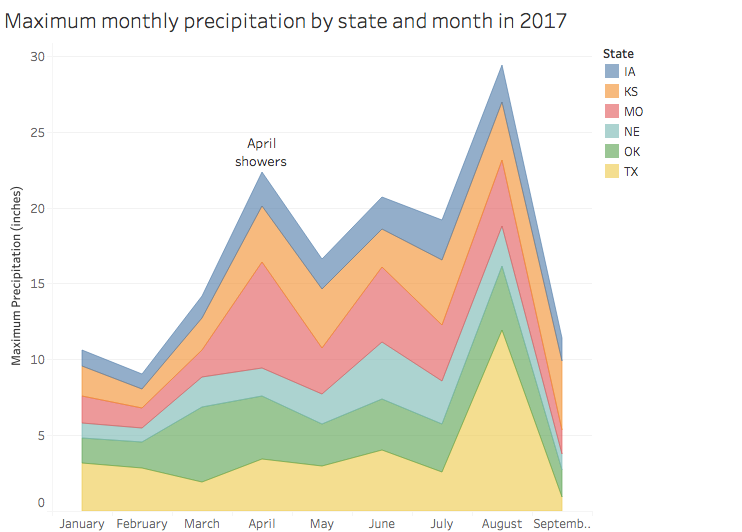
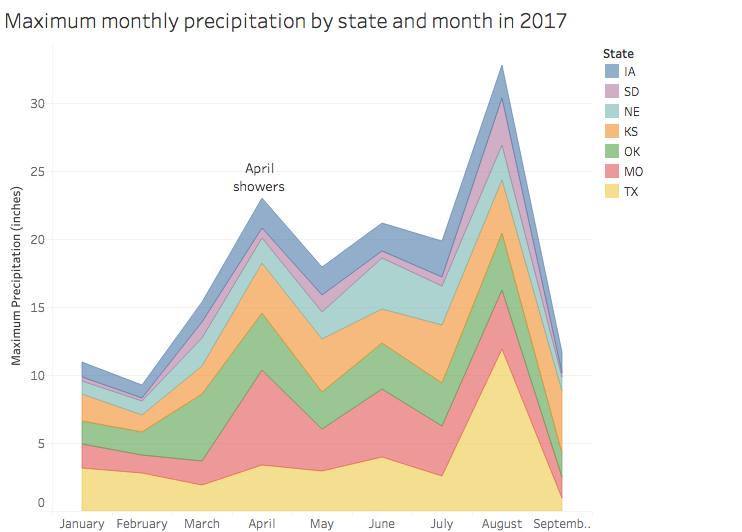
added SD to plots, all captions to images, summary

diff --git a/HW2/dflemin3_a2.html b/HW2/dflemin3_a2.html
@@ -1,7 +1,7 @@
 <!DOCTYPE HTML>
 <html xml:lang="en" lang="en">
 <head>
-  <title>CSE512 Assignment 2</title>
+  <title>CSE512 Assignment 2 - dflemin3</title>
   <style>
 * { padding: 0; margin: 0; }
 
@@ -79,12 +79,13 @@ ol { margin: 1em; }
     (NOAA) Daily Global Historical Climatology Network, includes information regarding
     the temperature, precipitation accumulation, wind speed and direction, and snow accumulation
     and depth for 100s of station in all U.S. states and territories. As a native
-    of the Midwest, a common phrase I heard while growing up is:
-    "If you don't like the weather, wait an hour."  This rich dataset provides an
-    opportunity to examine the extreme variability of Midwestern weather with exquisite
-    spatial and temporal precision.  To probe this variability, my analysis will
-    focus on the four main facets of punishing Midwestern weather: rain, wind, heat,
-    and snow.
+    of the Midwest, I grew up hoping for snowstorms to force school cancellations in the
+    winter, and watching intense early-summer thunderstorms roll across town.
+    Severe, and often variable weather, is a cornerstone of life in the Midwest, and I
+    hope to capture and analyse these phenomena. This rich dataset provides an
+    opportunity to examine the extreme Midwestern weather with exquisite
+    spatial and temporal precision.  My analysis will focus on the four main
+    facets of punishing Midwestern weather: rain, wind, heat, and snow.
 
     Note that in this analysis, I consider the Midwest to consist of South Dakota,
     Iowa, Nebraska, Kansas, Missouri, Oklahoma, and North Texas (north of Austin, TX).
@@ -92,8 +93,6 @@ ol { margin: 1em; }
     Illinois, Minnesota, why any part Texas, at all?), but my definition looks at the
     "Midwest" where the extreme weather most commonly occurs, a subset of the region
     commonly referred to as <a href="https://en.wikipedia.org/wiki/Tornado_Alley">"Tornado Alley"</a>.
-
-    TODO: make plot of measurement counts vs station?
   </p>
 
   <p>
@@ -109,9 +108,10 @@ ol { margin: 1em; }
   <ol>
     <li><b>Overarching Question:</b> What can daily weather data reveal about extreme weather in the Midwest?</li>
     <li>Which regions in the Midwest undergo the strongest winds?</li>
-    <li>Can one identify tornados, or when tornado season is, based off of the daily wind speed and rain data?</li>
+    <li>Can one identify tornados based off of the daily wind speed and rain data?</li>
+    <li>Can I map severe Midwestern storms using daily wind speed and rain data?</li>
     <li>Where, and under what conditions, do Midwestern blizzards occur?</li>
-    <li>Which areas undergo the most extreme temperature differences?</li>
+    <li>Which areas undergo the highest temperatures and most extreme temperature differences?</li>
   </ol>
 </section>
 
@@ -121,119 +121,227 @@ ol { margin: 1em; }
   <div class="entry">
     <img src="avgGustSpeed.png" />
     <p class="caption">
-    ENTER IMAGE CAPTION HERE.
+    First, let's examine the distribution of stations in my definition of the Midwest by
+    plotting a point for each station on the map.  I color the points by the average
+    maximum 5-second sustained wind speed, which I define here as a "gust", to get a handle
+    of the wind topography of the region. The stations mostly cluster in cities
+    (see the noticable clusters near Dallas, TX, Oklahoma City, OK, St. Louis, MO, etc)
+    and many stations are actually located at airports.  From the point colors,
+    we can see that the gust speed is on average faster in the western
+    "plains region" of the Midwest, the flat farm lands in north Texas, western
+    OK, KS, NE, and SD.
     </p>
   </div>
 
   <div class="entry">
     <img src="maxWindSpeedMonth.png" />
     <p class="caption">
-    ENTER IMAGE CAPTION HERE.
+    Given the trends seen in the previous figure, let's examine the maximum gust speed
+    in each state for each month in the dataset to identify where and when the most
+    intense gusts occur (note that the table redundantly encodes maximum gust speed for
+    clarity).  I display the maximum recorded gust speed by a station in each state
+    and cut the color for maximum speed at 90 MPH, a rough minimum speed required for
+    a windstorm to be a tornado (<a href="https://en.wikipedia.org/wiki/Fujita_scale">see the Fujita Scale</a>).
+    Most states seem to have the most intense gusts from May-August (tornado season?) and several states had stations
+    record extreme gusts in excess of 90 MPH, potential tornados.  Note that in this dataset, we do not have data
+    for October, November, or December, so our analysis is limited to the Winter, Spring and Summer months.
     </p>
   </div>
 
   <div class="entry">
     <img src="averageWindSpeeds.png" />
     <p class="caption">
-    ENTER IMAGE CAPTION HERE.
+    Similar to the previous figure, I plot the average wind speed each month, for each state
+    to see if it correlates with the maximum gust speed.  For all states, the average wind
+    speeds peak from around February to May, with South Dakota consistently having fast
+    average wind speeds.  One would expect faster gust to occur when the average wind speed
+    is high, if there are more storms in the region, for example, but that does not seem to
+    be the case for any state, except maybe South Dakota.
     </p>
   </div>
 
   <div class="entry">
     <img src="maxVsAvgWindSpeed.png" />
     <p class="caption">
-    ENTER IMAGE CAPTION HERE.
+    To examine the maximum gust speed (maximum 5-second wind speed) and average wind
+    speed correlation further, we plot these two quantities for all stations (some labeled) in our sample
+    for 3 quarters, Winter, Spring, and Summer, and plot trend lines, with errors. There are several stations
+    that did not record any wind speed information (colored in orange), so I put those points at the origin.
+    There does not appear to be a correlation during the Winter months (Q1), but there is a weak positive
+    correlation during the Spring and Summer (Q2, Q3, respectively).
     </p>
   </div>
 
   <div class="entry">
     <img src="tornados.png" />
     <p class="caption">
-    ENTER IMAGE CAPTION HERE.
+    What about extremely strong wind gusts at individual stations in 2017, can we identify tornados?
+    I plot the location of all the stations and color them by the maximum recorded wind gust and
+    identify the stations with the fastest gusts.  There are several with gusts of at least the
+    threshold for a tornado, about 90 MPH, with two stations recording gusts in excess of 100 MPH, with
+    one recording a gust of 170 MPH at Lee's Summit Municipal Airport in Missouri.  Either these are
+    errant data, extreme gusts, or tornado detections!
     </p>
   </div>
 
   <div class="entry">
     <img src="maxWindPerMonth.png" />
     <p class="caption">
-    ENTER IMAGE CAPTION HERE.
-    </p>
-  </div>
-
-  <div class="entry">
-    <img src="rainWindSpeed.png" />
-    <p class="caption">
-    ENTER IMAGE CAPTION HERE.
-    </p>
-  </div>
-
-  <div class="entry">
-    <img src="totalPrecipQuarters.png" />
-    <p class="caption">
-    ENTER IMAGE CAPTION HERE.
-    </p>
-  </div>
-
-  <div class="entry">
-    <img src="mostRainByStation.png" />
-    <p class="caption">
-    ENTER IMAGE CAPTION HERE.
-    </p>
-  </div>
-
-  <div class="entry">
-    <img src="maxPrecipMonth.png" />
-    <p class="caption">
-    ENTER IMAGE CAPTION HERE.
+    Next, let's probe the data quality at the 4 stations with the fastest gusts in 2017
+    by examining their fastest recorded gust speeds over each month.  The points are colored
+    by station and the point sizes indicate the maximum average daily wind speed recorded by
+    that station in that month.  The tornado candidates, station maximum gust speeds exceeding
+    about 90 MPH, clearly stand out amongst the seasonal wind speed trend.  Three appear like real
+    tornado candidates, but the Pine Ridge Airport's maximum recorded gust speed equals the maximum average
+    daily wind speed, so unless there was a tornado-like storm all day, that data point is probably an error.
     </p>
   </div>
 
   <div class="entry">
     <img src="maxPrecipMaxGust.png" />
     <p class="caption">
-    ENTER IMAGE CAPTION HERE.
+    Severe storms that produce high winds, and potentially tornados, often unlease torrential rains.
+    To see if this trend is reflected in the data, I plot, for each weather station, the maximum
+    precipitation recorded in a day as the station point size and color the points by the maximum
+    recorded gust speed.  Note that typically precipitation includes snow, but in this dataset,
+    precipitation corresponds to rain and/or melted snow (see <a href="ftp://ftp.ncdc.noaa.gov/pub/data/ghcn/daily/by_year/readme.txt">here</a> for more info).
+    The stations that record the most rain are at the Southern end of my
+    latitude cut in Texas by the Gulf of Mexico and are likely recording rain from tropical storms,
+    especially given the low gust speeds, a hallmark of sub-hurricane level winds.  Although several
+    station that record lots of rain also measure strong gusts, like in southern Oklahoma and
+    southeastern Nebraska, there does not appear to be a strong link between maximum gust speeds and
+    maximum precipitation.  Note that most stations in South Dakota are missing maximum precipitation data.
+    </p>
+  </div>
+
+  <div class="entry">
+    <img src="rainWindSpeed.png" />
+    <p class="caption">
+    If the maximum rain recorded in a day does not correlate with the maximum recorded gust,
+    does total rain accumulation correlate with average daily wind speeds (plotted above,
+    for each station)?  Note that several stations did not record average daily winds speeds, so I
+    colored these points in grey to distinguish them from the rest of the dataset.  There is a
+    noticable negative correlation between total precipitation and average daily wind speed suggesting
+    that windier areas get less rain, altough there is a significant amount of scatter.
+    </p>
+  </div>
+
+  <div class="entry">
+    <img src="totalPrecipQuarters.png" />
+    <p class="caption">
+    Previously we saw that the maximum gust speeds and highest average daily wind speeds occured
+    in the Spring and Summer, so here I plot the total recorded precipitation (color) for each station
+    over the three seasons (quarters) to see if there is a similar trend.  There is little precipitation
+    during the Winter, which makes sense since in the Midwest at that time of year, it is likely cold
+    enough that any precipitation would be recorded as snow.  There is substantial amounts of rain recorded
+    in Southern Missouri near the MO-OK-KS border in the Spring, corresponding to thunderstorms that
+    frequently roll through this area during the late Spring, and Texan stations near the Gulf of Mexico receive
+    a substantial amount of rain in the Summer.  Seasonal rain totals seem to align with the maximum gust speeds
+    displayed above, but its not clear if severe weather is the root cause.
+    </p>
+  </div>
+
+  <div class="entry">
+    <img src="mostRainByStation.png" />
+    <p class="caption">
+    To examine how severe storms contribute to the stations' rain totals, I plot the
+    maximum recorded rain totals during the Winter, Spring, and Summer (Q1, Q2, and Q3, respectively)
+    for each station. In Missouri, Kansas, and Oklahoma, severe storms dumped a maximum of about 5 inches of
+    rain during the spring, perhaps during the same storm front, while intense rains accumulated about 8 inches
+    in Texas near the Gulf of Mexico.  Note that most stations in South Dakota are missing maximum precipitation data.
+    </p>
+  </div>
+
+  <div class="entry">
+    <img src="maxPrecipMonth.png" />
+    <p class="caption">
+    Now I plot maximum monthly precipitation by state, assuming that all stations in a state
+    contribute to the state's total, by month to see when each state receives the most of its rain.
+    We see clear peaks in April from Missouri's April showers, and in August from the Texan Gulf of Mexico
+    rain storms seen earlier.  Both South Dakota and Iowa have few intense storms that drop a lot of rain, while
+    Missouri, Oklahoma, and Texas all have numerous storms that drop inches of rain at a time.
     </p>
   </div>
 
   <div class="entry">
     <img src="snowStateMonthArea.png" />
     <p class="caption">
-    ENTER IMAGE CAPTION HERE.
+    Now I examine a different type of precipitation, snow, by plotting the state-by-state snow totals, again
+    assuming that each state's stations totals contribute to the state's total.  Both Iowa and Nebraska dominate
+    the snow totals with most of this snow falling during January and February.  South Dakota would presumably
+    receive even more snow since it is north of both of those states, but there was no snow data for South Dakota.
+    I truncated this figure at June as no state recorded appreciable snow once the Summer began since as temperatures rise,
+    precipitation will obviously preferentially fall as rain.
     </p>
   </div>
 
   <div class="entry">
     <img src="blizzard.png" />
     <p class="caption">
-    ENTER IMAGE CAPTION HERE.
+    Given the state-by-state monthly totals, let's look at individual stations to see when extreme blizzards occur.
+    Specifically, how does maximum snow accumulation correlate with minimum average temperature. Many stations did not
+    record minimum temperatures or snow accumulations and are shown in orange.  As expected, appreciable snow measurements
+    are recorded for minimum temperatures below freezing (32 degrees F).  The Scottsbluff, NE station had a particularly
+    intense blizzard with over 14 inches of snow and a sub-zero minimum temperature.  Many stations in Texas got cold
+    enough for snow, but none was record.
     </p>
   </div>
 
   <div class="entry">
     <img src="avgMonthlyTemp.png" />
     <p class="caption">
-    ENTER IMAGE CAPTION HERE.
+    Now to pivot to examine Midwestern temperatures, I plot the average monthly temperatures
+    for each state based on station-by-station data for each month (note that the South Dakota
+    data is incomplete and set to 0).  As expected, temperatures are lowest during the Winter
+     and peak during the Summer with the most southern states reaching the highest
+     temperatures, i.e. Texas, and the northern-most states reaching the lowest temperatures (Iowa).
+    </p>
+  </div>
+
+  <div class="entry">
+    <img src="highTempHist.png" />
+    <p class="caption">
+    Midwestern temperatures can get brutally hot, so I plot a stacked histogram of
+    recorded high temperatures for each state.  Texas dominates the temperature highs with
+    many maximum temperatures populating the 100-110 degrees F bin!  Most states' maximum
+    temperatures range from 70-95 degrees F with the mode of the distribution located
+    around 90 degrees F.  Midwestern summers get quite hot.
     </p>
   </div>
 
   <div class="entry">
     <img src="variableTemp.png" />
     <p class="caption">
-    ENTER IMAGE CAPTION HERE.
+     A common phrase I heard while growing up in the Midwest is: "If you don't like the weather, wait an hour."
+     In this figure, I plot the standard deviation of a state's stations average temperature measurements for
+     each month, a measure of how much the temperature changes in each state for each month.  Interestingly,
+     temperatures are most variable during the Winter months and least variable during the Summer months.
+     South Dakota consistently has the most variable temperatures with other flat plains states, Iowa and
+     Nebraska, also having higher variability than other Midwestern states.
     </p>
   </div>
 
   <div class="entry">
     <img src="maxDeltaT.png" />
     <p class="caption">
-    ENTER IMAGE CAPTION HERE.
+    As an additional measure of temperature variability, I compute the maximum difference between the maximum
+    and minimum temperature for each state for each month to gauge what were the most extreme observed
+    temperature swings.  Again, states has the most variable temperatures during the winter with temperature
+    differences of about 70-80 degrees F, massive temperature swings over the course of a month!  In September,
+    Oklahoma recorded a maximum temperature difference of about 200 degrees F, a swing from -100 to 100 degrees F!
+    This has to be an error, or Oklahoma is uninhabitable.
+
     </p>
   </div>
 
   <div class="entry">
     <h3>Summary</h3>
     <p>
-    WRITE FINAL SUMMARY HERE.
+    This daily weather dataset provides a deep insight into extreme Midwestern weather allowing for
+    rich characterization of extreme temperature, temperature swings, snow, rain, winds, and can even
+    help identify tornados.  Extreme winds and rains seem to preferentially occur during the Spring and Summer
+    months and near the Oklahoma-Kansas-Missouri border.  Using the granular station wind data, I was able to
+    identify 4 tornado event candidates and was able to rule out one as likely errant data.  
     </p>
   </div>
 </section>
